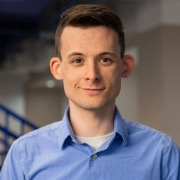
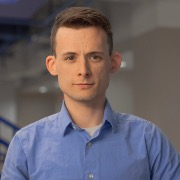
update profiles and homepage

diff --git a/index.html b/index.html
@@ -70,14 +70,14 @@
             <div class="container h-100 d-flex align-items-center flex-column">
                 <div class="row mx-auto my-auto text-center">
                     <div class="col-lg-10 mx-auto">
-                        <h2 class="mx-auto my-3 header-shadow">
+                        <h1 class="mx-auto my-3 header-shadow">
                             SMALL BUSINESS RUNS ON VITRIS
-                        </h2>
-                        <h5 class="mx-auto header-shadow">
-                            Vitris makes running a small business easier than ever.
-                            From building your website to managing appointments
+                        </h1>
+                        <h4 class="mx-auto header-shadow">
+                            Our platform helps make running a small business easier than ever.
+                            From building a website to managing appointments
                             and inventory, we’ve got you covered.
-                        </h5>
+                        </h4>
                         <a class="btn btn-v-blue btn-lg mt-3 mx-auto" href="./features/">
                             LEARN MORE
                         </a>
@@ -97,14 +97,14 @@
             <div class="container h-100 d-flex align-items-center flex-column">
                 <div class="row mx-auto my-auto text-center">
                     <div class="col-lg-10 mx-auto">
-                        <h2 class="mx-auto my-3 header-shadow">
+                        <h1 class="mx-auto my-3 header-shadow">
                             SMALL BUSINESS RUNS ON VITRIS
-                        </h2>
-                        <h5 class="mx-auto header-shadow">
-                            Vitris makes running a small business easier than ever.
-                            From building your website to managing appointments
+                        </h1>
+                        <h4 class="mx-auto header-shadow">
+                            Our platform helps make running a small business easier than ever.
+                            From building a website to managing appointments
                             and inventory, we’ve got you covered.
-                        </h5>
+                        </h4>
                         <a class="btn btn-v-blue btn-lg mt-3 mx-auto" href="./features/">
                             LEARN MORE
                         </a>
@@ -124,14 +124,14 @@
             <div class="container h-100 d-flex align-items-center flex-column">
                 <div class="row mx-auto my-auto text-center">
                     <div class="col-lg-10 mx-auto">
-                        <h2 class="mx-auto my-3 header-shadow">
+                        <h1 class="mx-auto my-3 header-shadow">
                             SMALL BUSINESS RUNS ON VITRIS
-                        </h2>
-                        <h5 class="mx-auto header-shadow">
-                            Vitris makes running a small business easier than ever.
-                            From building your website to managing appointments
+                        </h1>
+                        <h4 class="mx-auto header-shadow">
+                            Our platform helps make running a small business easier than ever.
+                            From building a website to managing appointments
                             and inventory, we’ve got you covered.
-                        </h5>
+                        </h4>
                         <a class="btn btn-v-blue btn-lg mt-3 mx-auto" href="./features/">
                             LEARN MORE
                         </a>
@@ -151,14 +151,14 @@
             <div class="container h-100 d-flex align-items-center flex-column">
                 <div class="row mx-auto my-auto text-center">
                     <div class="col-lg-10 mx-auto">
-                        <h2 class="mx-auto my-3 header-shadow">
+                        <h1 class="mx-auto my-3 header-shadow">
                             SMALL BUSINESS RUNS ON VITRIS
-                        </h2>
-                        <h5 class="mx-auto header-shadow">
-                            Vitris makes running a small business easier than ever.
-                            From building your website to managing appointments
+                        </h1>
+                        <h4 class="mx-auto header-shadow">
+                            Our platform helps make running a small business easier than ever.
+                            From building a website to managing appointments
                             and inventory, we’ve got you covered.
-                        </h5>
+                        </h4>
                         <a class="btn btn-v-blue btn-lg mt-3 mx-auto" href="./features/">
                             LEARN MORE
                         </a>
@@ -175,13 +175,13 @@
     <div id="whats-vitris"></div>
 
     <!-- 3 box section -->
-    <div class="container-fuild" style="background-color: #f7f7f7">
-        <div class="row pt-5">
+    <div class="container-fuild PT-5" style="background-color: #f7f7f7">
+        <!-- <div class="row pt-5">
             <div class="col-lg-10 mx-auto text-center">
                 <h3>WHAT'S VITRIS</h3>
                 <div class="how-hr mx-auto"></div>
             </div>
-        </div>
+        </div> -->
         <div class="row my-5 mx-5">
             <div class="col-lg-4 pb-3">
                 <a class="how-href" href="./features/">
@@ -221,13 +221,11 @@
         <div class="container py-5">
             <div class="row">
                 <div class="col-lg-6 my-auto">
-                    <h3>BUILDING AN EMPIRE JUST GOT A WHOLE LOT EASIER</h3>
+                    <h3>BUILD YOUR EMPIRE</h3>
                     <div class="how-hr"></div>
-                    <p class="wow slideInUp mt-2">With Vitris, running a small business has never been easier. We know from
-                            experience that being an entrepreneur is a big job, so we set out to take some of
-                            the weight off your shoulders. Our software makes it simple to build a high-
-                            quality website with custom components, schedule appointments with
-                            customers, manage orders and inventory, and track sales.</p>
+                    <p class="wow slideInUp mt-2">
+                            We know from experience that being an entrepreneur is a big job, so we set out to take some of the weight off your shoulders. Our software makes it easy to build a high-quality website with custom components, schedule appointments with customers, manage orders and inventory, and track your sales performance.
+                        </p>
                     <a class="btn btn-v-blue btn-raised wow fadeInUp" href="./features/">
                         Features
                     </a>
@@ -270,11 +268,9 @@
                 <div class="col-lg-6 my-auto">
                     <h3 class="wow slideInUp" style="text-align: right;">OUR PHILOSOPHY</h3>
                     <div class="how-hr ml-auto"></div>
-                    <p class="wow fadeInUp mt-2" style="text-align: right">Our goal is to help entrepreneurs make their dreams come true through
-                            technology that is simple, practical, and transparent. We believe that being an
-                            entrepreneur is one of the most important jobs out there, so we place a lot of
-                            importance on being an ongoing source of value for our users, both on and off the
-                            screen.</p>
+                    <p class="wow fadeInUp mt-2" style="text-align: right">
+                            Our goal is to provide entrepreneurs with the tools they need make their dreams come true. We believe that being an entrepreneur is one of the most important jobs out there, so we strive to be an ongoing source of value for our users both on and off the screen. 
+                        </p>
                     <a class="btn btn-v-blue btn-raised wow fadeInUp float-right" href="./about/">
                         ABOUT US
                     </a>

diff --git a/about/index.html b/about/index.html
@@ -87,7 +87,7 @@
             <div class="row" style="padding-left: 5em !important; padding-right: 5em !important;">
                 <div class="jumbotron p-3 p-md-5 text-white rounded mx-auto" style="background-color: rgba(62,90,245,1);">
                     <div class="col-md-12 px-0 mx-auto">
-                        <h1 class="display-4 font-italic text-center">Our mission is to continuously provide value that helps small businesses grow and makes life easier for our users</h1>
+                        <h1 class="display-4 font-italic text-center">To continuously provide value that helps small businesses grow and makes life easier for our users</h1>
                     </div>
                 </div>
             </div>
@@ -144,14 +144,20 @@
                     <small>Creative Director</small>
                 </div>
                 <div class="col-md-4 col-sm-6 mb-3">
+                    <img src="../assets/img/nicoleProf.jpg" alt="" class="img-fluid rounded-circle mb-2" style="height: 180px; width: 180px;">
+                    <h4>Nicole Gormley</h4>
+                    <small>Communications Specalist</small>
+                </div>
+                
+                <div class="col-md-4 col-sm-6 mb-3">
                     <img src="../assets/img/alex.jpg" alt="" class="img-fluid rounded-circle mb-2" style="height: 180px; width: 180px;">
                     <h4>Alex Osman</h4>
                     <small>Full-Stack Developer</small>
                 </div>
                 <div class="col-md-4 col-sm-6 mb-3">
-                    <img src="../assets/img/nicoleProf.jpg" alt="" class="img-fluid rounded-circle mb-2" style="height: 180px; width: 180px;">
-                    <h4>Nicole Gormley</h4>
-                    <small>Communications Specalist</small>
+                    <img src="../assets/img/brandon.jpg" alt="" class="img-fluid rounded-circle mb-2" style="height: 180px; width: 180px;">
+                    <h4>Brandon McKay</h4>
+                    <small>Backend Developer</small>
                 </div>
                 <div class="col-md-4 col-sm-6 mb-3">
                     <img src="../assets/img/john.png" alt="" class="img-fluid rounded-circle mb-2" style="height: 180px; width: 180px;">
@@ -163,15 +169,20 @@
                     <h4>Chethtra Yen</h4>
                     <small>Backend Developer</small>
                 </div>
-                <!-- <div class="col-md-4 col-sm-6 mb-3">
-                    <img src="../assets/img/brandon.png" alt="" class="img-fluid rounded-circle mb-2" style="height: 180px; width: 180px;">
-                    <h4>Brandon McKay</h4>
-                    <small>Backend Developer</small>
-                </div> -->
+                <div class="col-md-4 col-sm-6 mb-3">
+                    <img src="../assets/img/run.jpg" alt="" class="img-fluid rounded-circle mb-2" style="height: 180px; width: 180px;">
+                    <h4>Run Zhu</h4>
+                    <small>Software Engineer Intern</small>
+                </div>
+                <div class="col-md-4 col-sm-6 mb-3">
+                    <img src="../assets/img/tyler.jpg" alt="" class="img-fluid rounded-circle mb-2" style="height: 180px; width: 180px;">
+                    <h4>Tyler Pittsman</h4>
+                    <small>Business Development Intern</small>
+                </div>
                 <div class="col-md-4 col-sm-6 mb-3">
                     <img src="../assets/img/justin.jpg" alt="" class="img-fluid rounded-circle mb-2" style="height: 180px; width: 180px;">
                     <h4>Justin Hilker</h4>
-                    <small>2018 Summer Intern</small>
+                    <small>Marketing Intern</small>
                 </div>
             </div>
         </div>
